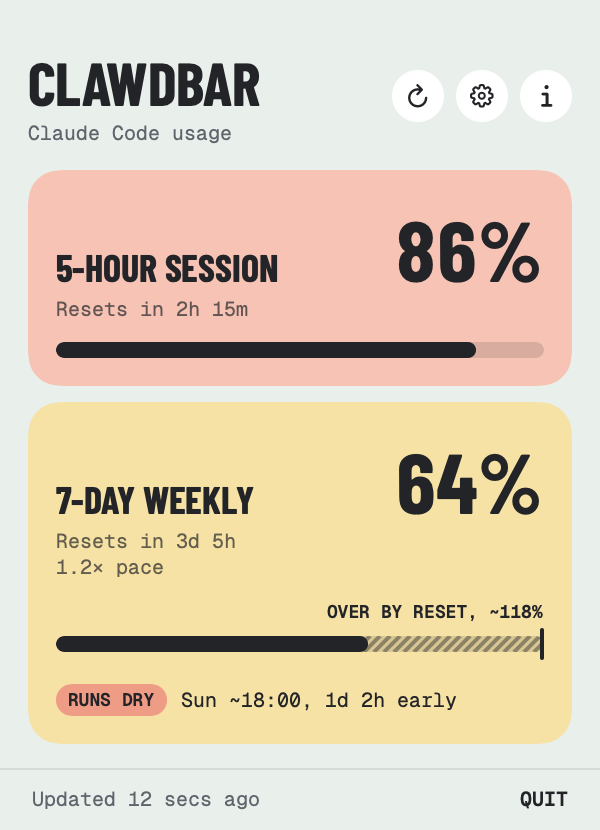
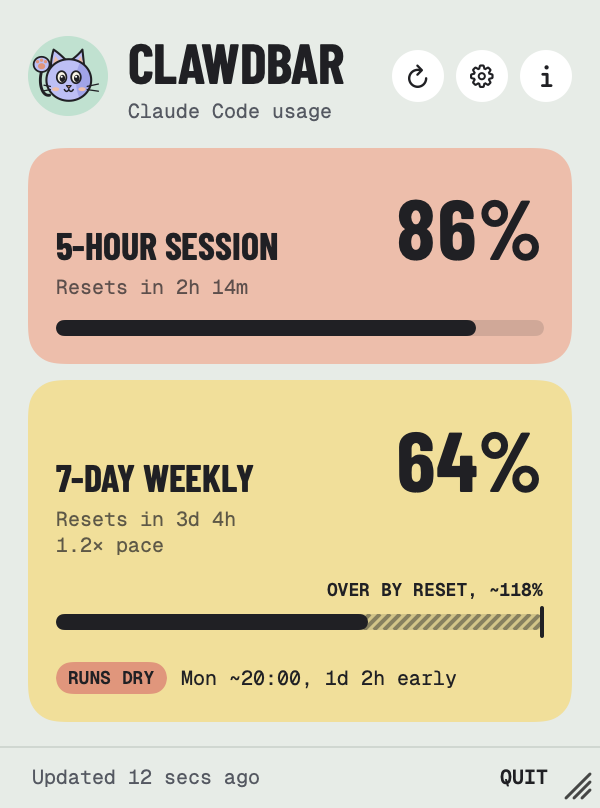
Docs: new screenshots, update checks for DMG installs, HouseStyle credit

diff --git a/ClawdBarTests/ScreenshotTests.swift b/ClawdBarTests/ScreenshotTests.swift
@@ -17,9 +17,9 @@ final class ScreenshotTests: XCTestCase {
         try FileManager.default.createDirectory(at: out, withIntermediateDirectories: true)
     }
 
-    private func sampleFetcher(error: String? = nil, weekly: Double = 0.27) -> UsageFetcher {
+    private func sampleFetcher(error: String? = nil, session: Double = 0.42, weekly: Double = 0.27) -> UsageFetcher {
         let fetcher = UsageFetcher()
-        fetcher.usage = UsageData(session5h: 0.42, session5hReset: Date().addingTimeInterval(2 * 3600 + 15 * 60),
+        fetcher.usage = UsageData(session5h: session, session5hReset: Date().addingTimeInterval(2 * 3600 + 15 * 60),
                                   weekly7d: weekly, weekly7dReset: Date().addingTimeInterval(3 * 86400 + 5 * 3600),
                                   status: "allowed")
         fetcher.lastUpdated = Date().addingTimeInterval(-12)
@@ -38,6 +38,12 @@ final class ScreenshotTests: XCTestCase {
         let busy = sampleFetcher(weekly: 0.71)
         try Snapshot.panel(to: out.appendingPathComponent("panel-forecast.png")) {
             MenuBarView().environmentObject(busy).environmentObject(SelfUpdater(app: .clawdBar))
+        }
+        for dark in [false, true] {
+            let heavy = sampleFetcher(session: 0.86, weekly: 0.64)
+            try Snapshot.panel(dark: dark, to: out.appendingPathComponent("panel-busy\(dark ? "-dark" : "").png")) {
+                MenuBarView().environmentObject(heavy).environmentObject(SelfUpdater(app: .clawdBar))
+            }
         }
         let failing = sampleFetcher(error: "Claude credentials were rejected. Try signing in again via Claude Code.")
         try Snapshot.panel(to: out.appendingPathComponent("panel-error.png")) {

diff --git a/README.md b/README.md
@@ -52,7 +52,7 @@ Open ClawdBar, then click **Allow access & continue**. macOS asks once for permi
 
 ### Updating
 
-Open **Settings → Check for updates → Update ClawdBar**, and it quits, updates and reopens on its own. You can also run `brew upgrade --cask clawdbar` in Terminal.
+Open **Settings → Check for updates → Update ClawdBar**, and it quits, updates and reopens on its own. You can also run `brew upgrade --cask clawdbar` in Terminal. If you installed ClawdBar from the DMG instead, Check for updates asks GitHub for the latest version and opens its download page.
 
 > **On ClawdBar 1.0.6 or earlier with Homebrew 7?** If *Update ClawdBar* doesn't work, update once from Terminal:
 > ```bash
@@ -135,6 +135,7 @@ The `.xcodeproj` isn't checked in. It's generated from `project.yml`, so run `ma
 | Command | What it does |
 |---|---|
 | `make test` | Run the unit tests |
+| `make screenshots` | Render the panel, popovers and welcome screen with sample usage into `build/screenshots` |
 | `make dmg` | Build a local signed and notarized DMG (doesn't publish) |
 | `make release VERSION=x.y.z` | Ship a release; see [RELEASING.md](RELEASING.md) |
 
@@ -156,4 +157,4 @@ If ClawdBar helps you pace your day, you can [buy me a coffee](https://buymeacof
 
 MIT. See [LICENSE](LICENSE).
 
-The bundled fonts, Barlow Condensed and Geist Mono, are under the SIL Open Font License (see `ClawdBar/Fonts`). ClawdBar is an independent app and isn't affiliated with or endorsed by Anthropic. Claude and Claude Code are trademarks of Anthropic.
+The look and the menu bar panel come from [HouseStyle](https://github.com/RossNicholson/mac-house-style) (MIT), shared with my other Mac apps, BrewDock and Mop Up. Its bundled fonts, Barlow Condensed and Geist Mono, are under the SIL Open Font License. ClawdBar is an independent app and isn't affiliated with or endorsed by Anthropic. Claude and Claude Code are trademarks of Anthropic.
